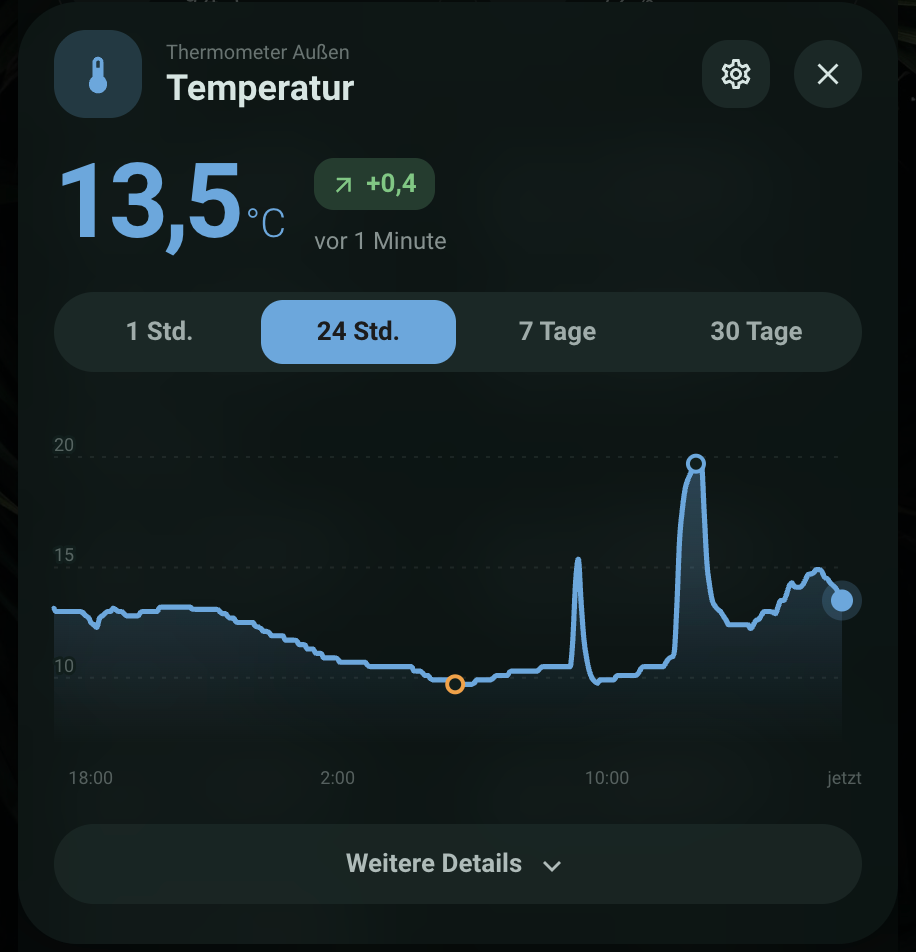
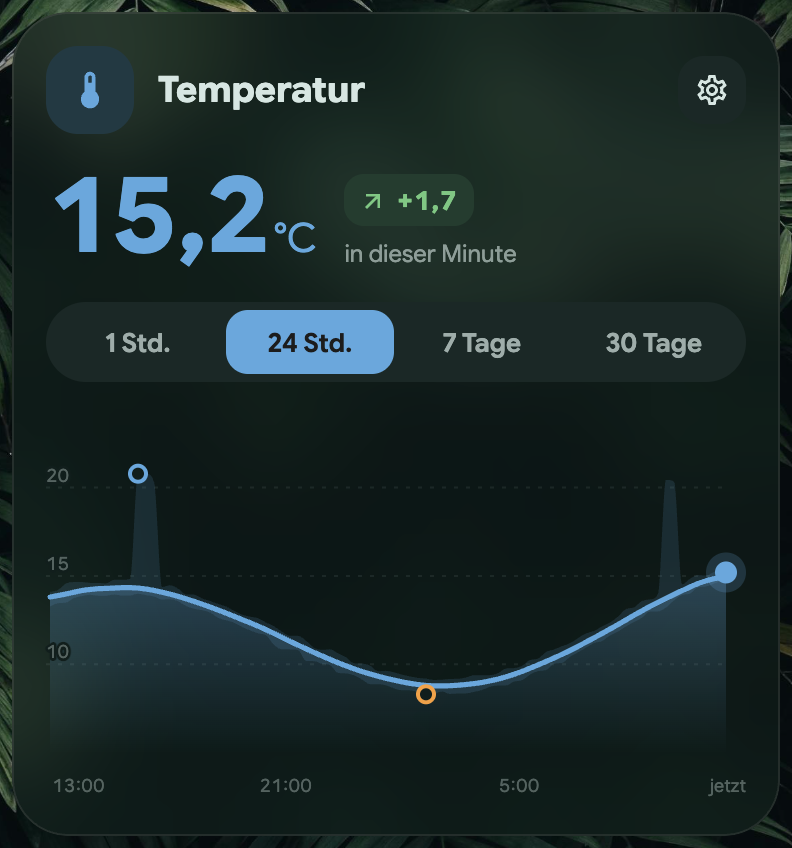
Release 2.10.0
Version, changelog date, hero with 59 cards, release image, detail card
docs image with the min-max band, README release link.

diff --git a/src/const.ts b/src/const.ts
@@ -10,7 +10,7 @@ import {
   LEVEL_TRACK_RADIUS,
 } from "./shared/level-slider";
 
-export const CARD_VERSION = "2.9.0";
+export const CARD_VERSION = "2.10.0";
 
 export const DEFAULT_CLIMATE_RADIUS = RADIUS.cardHero;
 export const DEFAULT_MINI_RADIUS = RADIUS.card;

diff --git a/README.md b/README.md
@@ -12,11 +12,12 @@ TypeScript + [Lit](https://lit.dev), **without** any dependency on
 (`m3-cards.js`) registers **59 cards**, all sharing one design language.
 
 <p align="center">
-  <a href="https://github.com/j0sp0r/m3-cards/releases/tag/v2.9.0"><img src="docs/images/release-2.9.jpg" alt="What's new in 2.9: the energy usage card, the tariff card, the availability card and the needle gauge" width="880"></a>
+  <a href="https://github.com/j0sp0r/m3-cards/releases/tag/v2.10.0"><img src="docs/images/release-2.10.jpg" alt="What's new in 2.10: the network card, calmer detail graphs with a min-max band, half-width layouts and icons without a background" width="880"></a>
 </p>
 
 <p align="center"><sub>
-  Earlier: <a href="https://github.com/j0sp0r/m3-cards/releases/tag/v2.8.0">2.8</a> ·
+  Earlier: <a href="https://github.com/j0sp0r/m3-cards/releases/tag/v2.9.0">2.9</a> ·
+  <a href="https://github.com/j0sp0r/m3-cards/releases/tag/v2.8.0">2.8</a> ·
   <a href="https://github.com/j0sp0r/m3-cards/releases/tag/v2.7.0">2.7</a> ·
   2.6 as a video: <a href="https://github.com/j0sp0r/m3-cards/releases/download/v2.6.0/m3-cards-2.6.mp4">landscape</a> ·
   <a href="https://github.com/j0sp0r/m3-cards/releases/download/v2.6.0/m3-cards-2.6-phone.mp4">phone</a>
@@ -7201,7 +7202,7 @@ door gets a timeline of when it was open. A lamp gets its own M3 card
 with the timeline under it. Below all of these sit the other entities of
 the same device, and a tap on one steps the view to it.
 
-<img src="docs/images/detail-card.png" alt="M3 Detail Card in its sheet — an outdoor temperature over 24 hours" width="440">
+<img src="docs/images/detail-card.png" alt="M3 Detail Card — an outdoor temperature over 24 hours, a band behind the curve keeps the short peaks" width="440">
 
 The same view can replace Home Assistant's more-info dialog for the suite's
 own cards: set `detail_mode: sheet` on a card, and a tap that would have

diff --git a/docs/README.template.md b/docs/README.template.md
@@ -12,11 +12,12 @@ TypeScript + [Lit](https://lit.dev), **without** any dependency on
 (`m3-cards.js`) registers **{{CARD_COUNT}} cards**, all sharing one design language.
 
 <p align="center">
-  <a href="https://github.com/j0sp0r/m3-cards/releases/tag/v2.9.0"><img src="docs/images/release-2.9.jpg" alt="What's new in 2.9: the energy usage card, the tariff card, the availability card and the needle gauge" width="880"></a>
+  <a href="https://github.com/j0sp0r/m3-cards/releases/tag/v2.10.0"><img src="docs/images/release-2.10.jpg" alt="What's new in 2.10: the network card, calmer detail graphs with a min-max band, half-width layouts and icons without a background" width="880"></a>
 </p>
 
 <p align="center"><sub>
-  Earlier: <a href="https://github.com/j0sp0r/m3-cards/releases/tag/v2.8.0">2.8</a> ·
+  Earlier: <a href="https://github.com/j0sp0r/m3-cards/releases/tag/v2.9.0">2.9</a> ·
+  <a href="https://github.com/j0sp0r/m3-cards/releases/tag/v2.8.0">2.8</a> ·
   <a href="https://github.com/j0sp0r/m3-cards/releases/tag/v2.7.0">2.7</a> ·
   2.6 as a video: <a href="https://github.com/j0sp0r/m3-cards/releases/download/v2.6.0/m3-cards-2.6.mp4">landscape</a> ·
   <a href="https://github.com/j0sp0r/m3-cards/releases/download/v2.6.0/m3-cards-2.6-phone.mp4">phone</a>

diff --git a/CHANGELOG.md b/CHANGELOG.md
@@ -6,6 +6,8 @@ Versionierung folgt [SemVer](https://semver.org/lang/de/).
 
 ## [Unreleased]
 
+## [2.10.0] – 2026-11-23
+
 ### Added
 
 - **Icons without a background (#64).** `m3-icon-background: none` in a
@@ -113,6 +115,9 @@ Versionierung folgt [SemVer](https://semver.org/lang/de/).
   was cut to "Batte…". And the card takes a `tap_action` now, in both
   layouts — navigate to a popup's hash, say; unset, a tap does nothing, as
   before.
+- **Detail card: the period selector's end pills.** The selected pill at
+  either end of the row now keeps its outer corners round, concentric with
+  the track.
 - **Room card: a header that fits a half-width slot (#43).** Below 260px the
   icon drops to 44px and the fold pill moves under the name, in place of the
   subtitle it repeats, so "Wohnzimmer" is no longer cut to its first letter.

diff --git a/docs/cards/detail-card.md b/docs/cards/detail-card.md
@@ -14,7 +14,7 @@ door gets a timeline of when it was open. A lamp gets its own M3 card
 with the timeline under it. Below all of these sit the other entities of
 the same device, and a tap on one steps the view to it.
 
-<img src="docs/images/detail-card.png" alt="M3 Detail Card in its sheet — an outdoor temperature over 24 hours" width="440">
+<img src="docs/images/detail-card.png" alt="M3 Detail Card — an outdoor temperature over 24 hours, a band behind the curve keeps the short peaks" width="440">
 
 The same view can replace Home Assistant's more-info dialog for the suite's
 own cards: set `detail_mode: sheet` on a card, and a tap that would have
